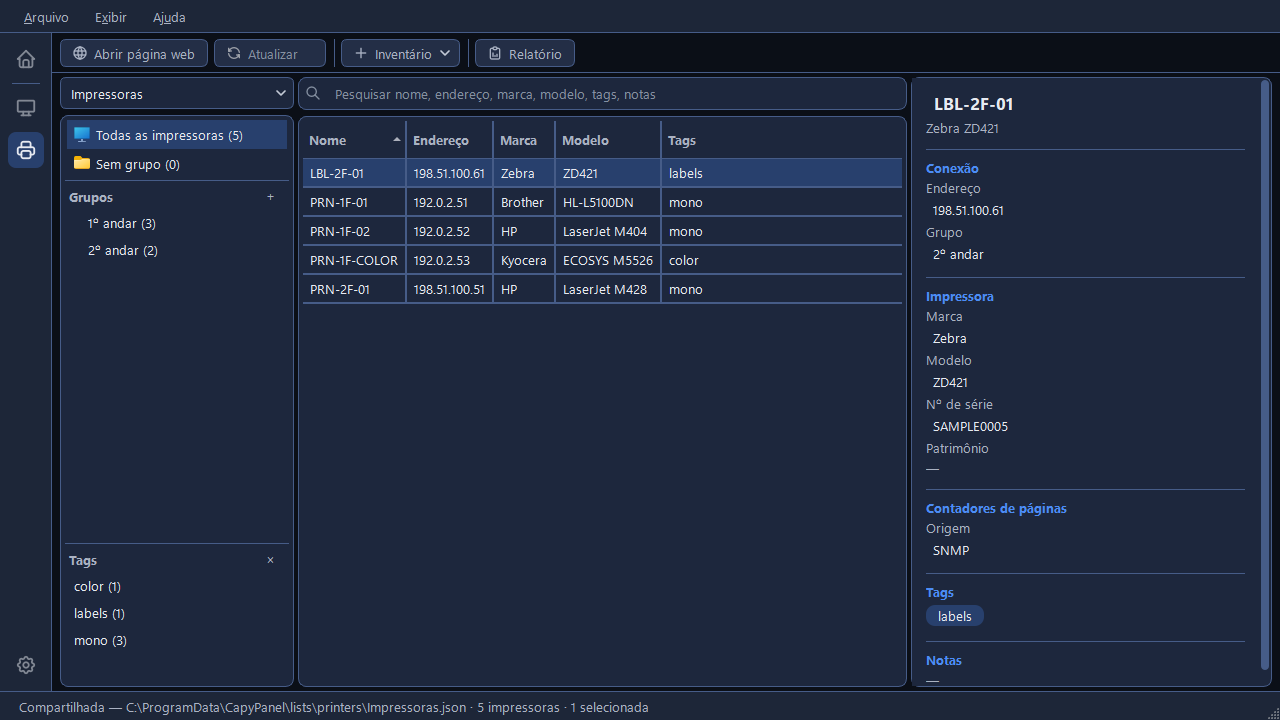
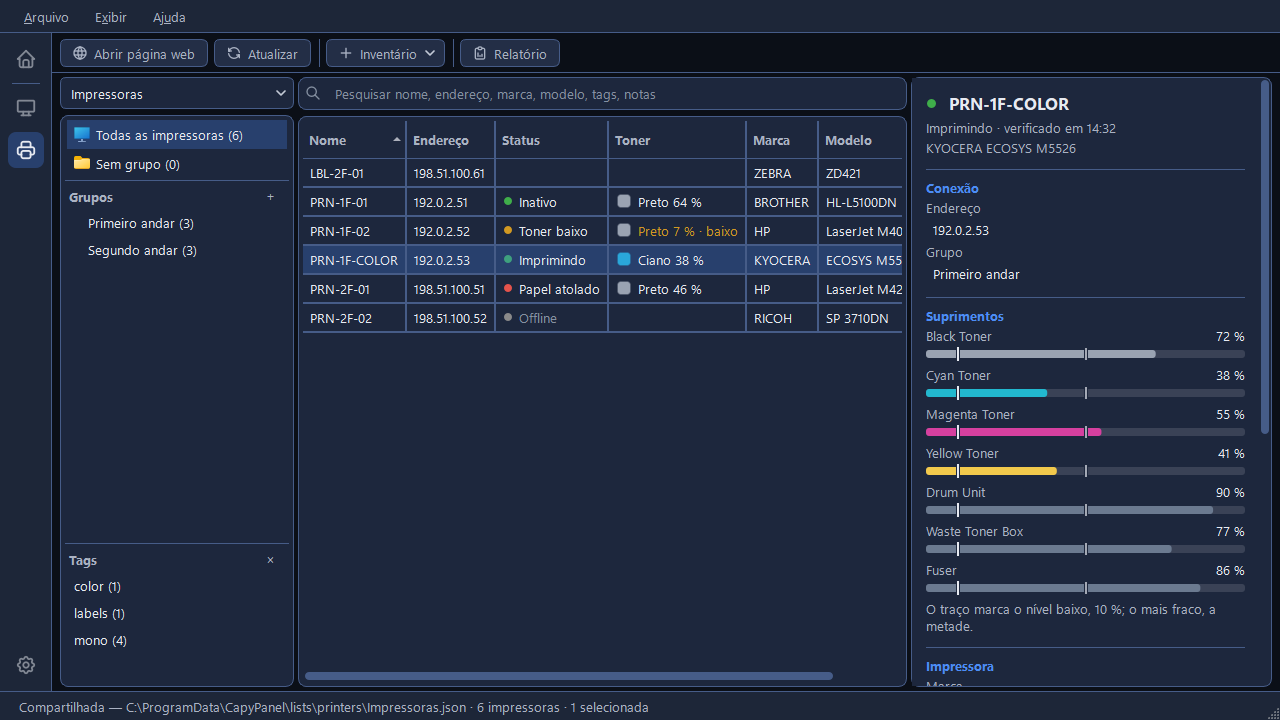
docs: screenshots of a refreshed printer list and its supplies
The Printers window is retaken with the Status and Toner columns filled, a low toner in amber, a
paper jam and an offline printer, so the page shows what the colours mean rather than describing
them alone. The Details panel's Supplies section is a second shot, with four toners, the drum, the
waste box and the fuser, and the two marks on every bar.

Both pages gained a detail the shots made plain: the Toner column carries a dab of that toner's
colour, and a supply is named as the printer names it, which is usually English whatever language
the app is in.

diff --git a/docs/printers/checking.md b/docs/printers/checking.md
@@ -7,6 +7,8 @@ counter. CapyPanel only ever reads: it never changes a setting on a printer.
 The results are kept in memory, never in the list file, and they're gone when CapyPanel closes.
 That also means a read-only list can be refreshed like any other.
 
+![The Printers window after a refresh: a status and a toner level on every printer, and the supplies of the selected one](../images/printers-dark.png)
+
 ## Refresh
 
 **Refresh** on the toolbar reads every printer the table shows, which is the group, tag or search
@@ -38,8 +40,9 @@ or select the printer and read it in full under its name in the Details panel.
 
 ## Toner and the other supplies
 
-The **Toner** column shows the lowest toner or ink the printer reports, as text by default:
-"Black 24 %", or "Cyan 8 % · low" in amber once it's at or below the low level. A printer that
+The **Toner** column shows the lowest toner or ink the printer reports, as text by default, with
+a dab of that toner's own colour beside it: "Black 24 %", or "Cyan 8 % · low" in amber once it's
+at or below the low level. A printer that
 reports a toner without a percentage shows "Black: some left" or "Toner: level unknown", and a
 black-only printer that names no colour simply shows "Toner".
 
@@ -47,11 +50,15 @@ black-only printer that names no colour simply shows "Toner".
 the percentage beside it. The bar stretches with the column, and in a very narrow column only the
 percentage shows. Copying a cell and the report always use the text form.
 
+![The Supplies section: a bar for each toner, the drum, the waste box and the fuser, with the two marks explained under them](../images/printer-details-dark.png)
+
 The Details panel's **Supplies** section lists everything the printer reports: toners and inks,
-the drum, the waste box, the fuser, the rollers. Each has its level and a bar, a low one is marked
-"24 % · Low", and a waste box close to full is marked "88 % · Nearly full". The fuser and the
-rollers show a level but are never called low, because they wear out rather than run out. When a
-printer reports none of this, the section says "The printer doesn't report its supplies."
+the drum, the waste box, the fuser, the rollers. Each is named as the printer names it, which is
+usually English whatever language CapyPanel is in. Each has its level and a bar, a low one is
+marked "24 % · Low", and a waste box close to full is marked "88 % · Nearly full". The fuser and
+the rollers show a level but are never called low, because they wear out rather than run out.
+When a printer reports none of this, the section says "The printer doesn't report its
+supplies."
 
 Every bar carries two marks, explained under them: "The tick is the low level, 10 %; the faint one
 is half."
